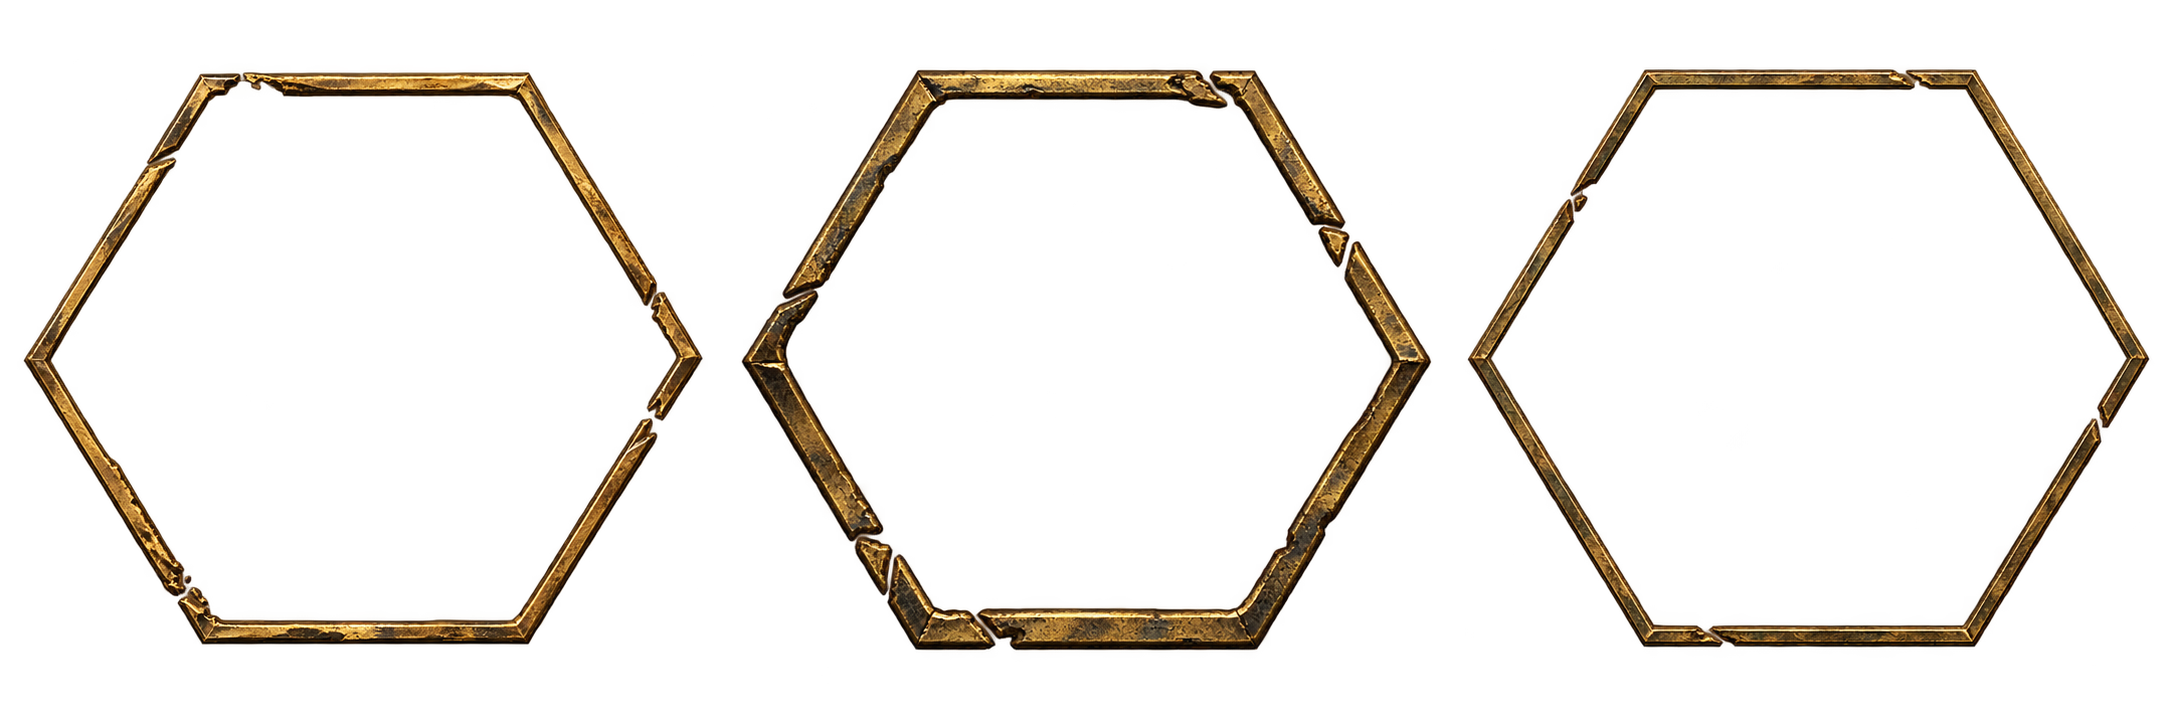
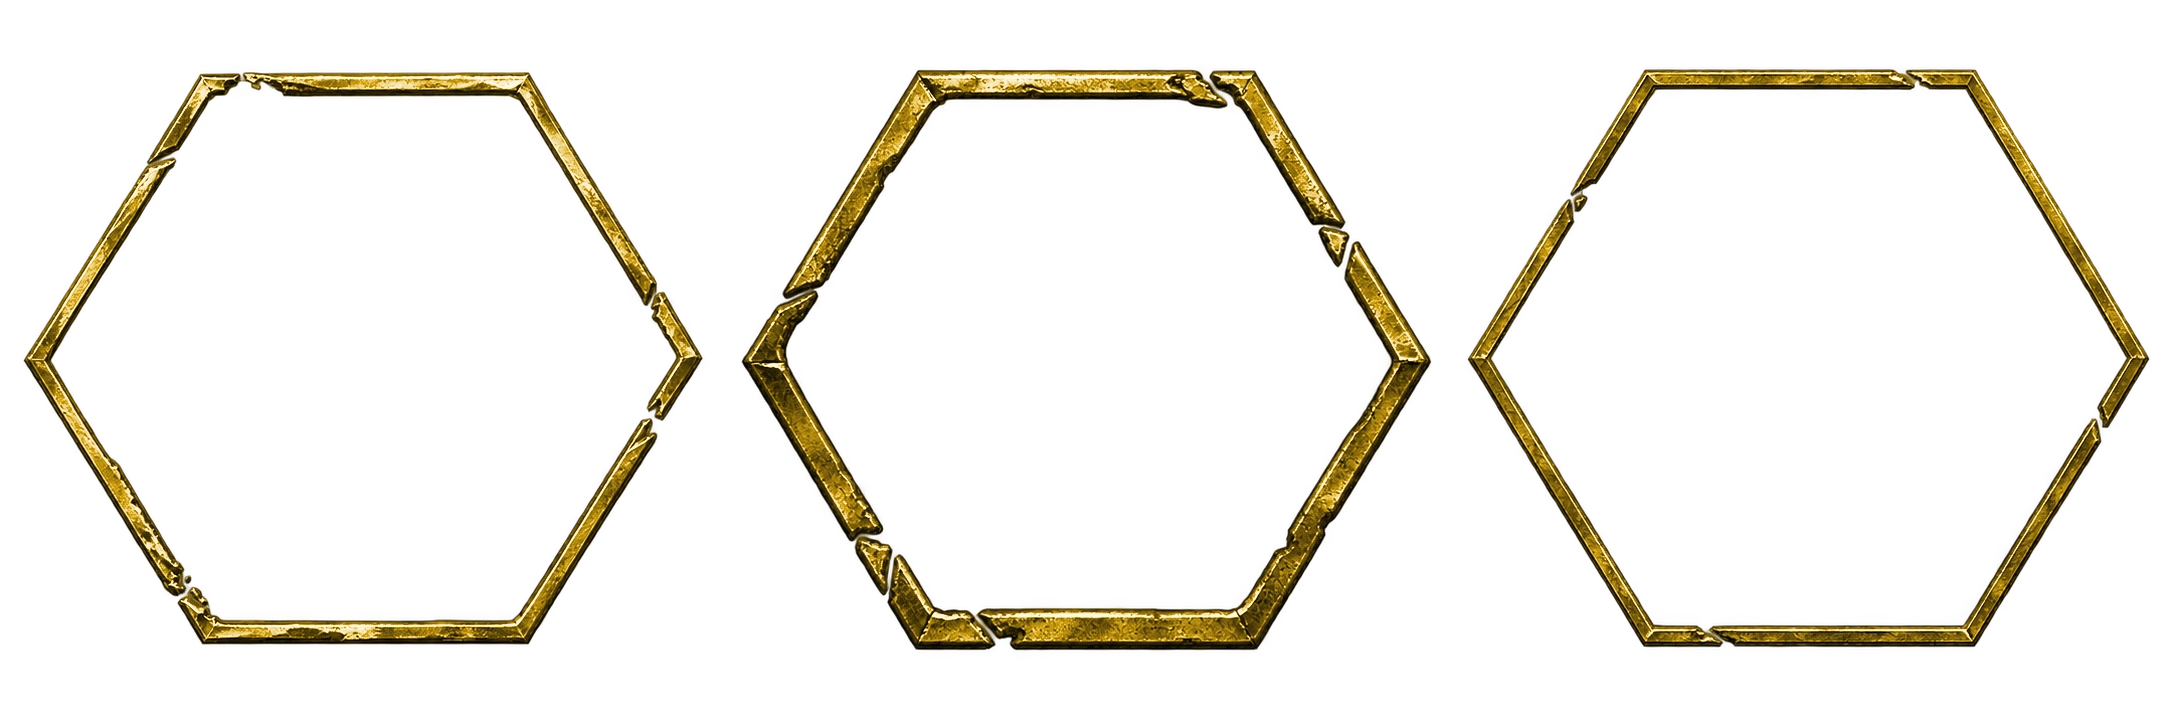
fix(gold): the rim art is re-mapped to gold, so the bonus tiles stop reading as timber
The owner twice said the gold frames still look brown (2026-10-24: "is that in? i
think they look the same - still not like gold"). The 2026-10-23 pass filtered the
atlas with `saturate(2.25) hue-rotate(16deg)`; measured on the live site, that left
the rim's body at hue 35 - orange-brown, which is exactly the varnished timber he
was seeing. A filter cannot fix a brown source: `saturate` and `hue-rotate` push the
existing ramp around, they do not re-map its tonality.

So the artwork itself is re-mapped. Alpha is untouched, so the geometry and the
antialiasing survive exactly; only RGB changes, through one fixed gold chromaticity
(hue 45, sat .94) with the top of the ramp desaturating into cream, because a
saturated yellow cannot reach high luminance and because that narrow near-neutral
flash is what makes metal read as metal. The tone curve is deliberately conservative
(a .90 gamma and a 1.10 boost): the source's tonal distribution IS the bevel, and
lifting it collapses the rim into a flat parchment band.

The CSS filter is gone, since the art is already gold and a 2.25x saturate on top of
a correct ramp would blow it out. The `drop-shadow` glow on `.gold-frame` is
untouched - the owner asked for it not to grow, and the occupied/empty difference is
still pinned.

Measured on a rendered board at deviceScaleFactor 3, rim isolated by differencing
with the frames hidden:

  band                     before              after
[…]

diff --git a/web/src/style.css b/web/src/style.css
@@ -853,15 +853,15 @@ html.futa04-information .hex.rich {
   pointer-events: none;
   filter: drop-shadow(0 0 1.6px rgba(231, 181, 83, .32));
 }
-#board .gold-frame-art {
-  /* A metal rim, not a wooden one (owner, 2026-10-23: "the gold tiles frames are too brown - looks
-     wooden - make it look more gold, a bit brighter - but don't increase its glow"). The brown came
-     from the sepia step, which is what makes metal look like timber; dropping it and leaning the hue
-     a little further into yellow gives the supplied atlas its gold back, and the small brightness
-     lift adds the highlight without touching the glow. The glow is the `drop-shadow` on
-     `.gold-frame` (unchanged), so this stays a change to the ART only. */
-  filter: sepia(0) saturate(2.25) hue-rotate(16deg) brightness(1.28) contrast(1.1);
-}
+/* NO FILTER ON THE RIM (owner, 2026-10-24, second pass: "is that in? i think they look the same -
+   still not like gold"). The 2026-10-23 pass filtered a BROWN atlas and could never work: `sepia`,
+   `saturate` and `hue-rotate` push the existing brown around, they cannot re-map a tonal ramp, so
+   the body stayed at hue 35 (orange-brown = varnished timber). The ARTWORK is gold now: the atlas
+   was rebuilt as a real gold ramp - one chromaticity, hue 45 / sat .94, with the top of the ramp
+   desaturating into cream - so there is nothing left for a filter to do, and a 2.25x saturate on top
+   of a correct ramp would blow it out. The glow is the `drop-shadow` on `.gold-frame` and is
+   untouched, as the owner asked. Measured on a rendered board at deviceScaleFactor 3, the rim's body
+   went from hue 33 to hue 45, and its specular from sat .83 to sat .32. */
 /* A V3 board enters on its finished painting, never on grey placeholder hexes. */
 html.futa04-information.design-v3 #board.skin-board:not(.skin-ground-ready) {
   opacity: 0;
